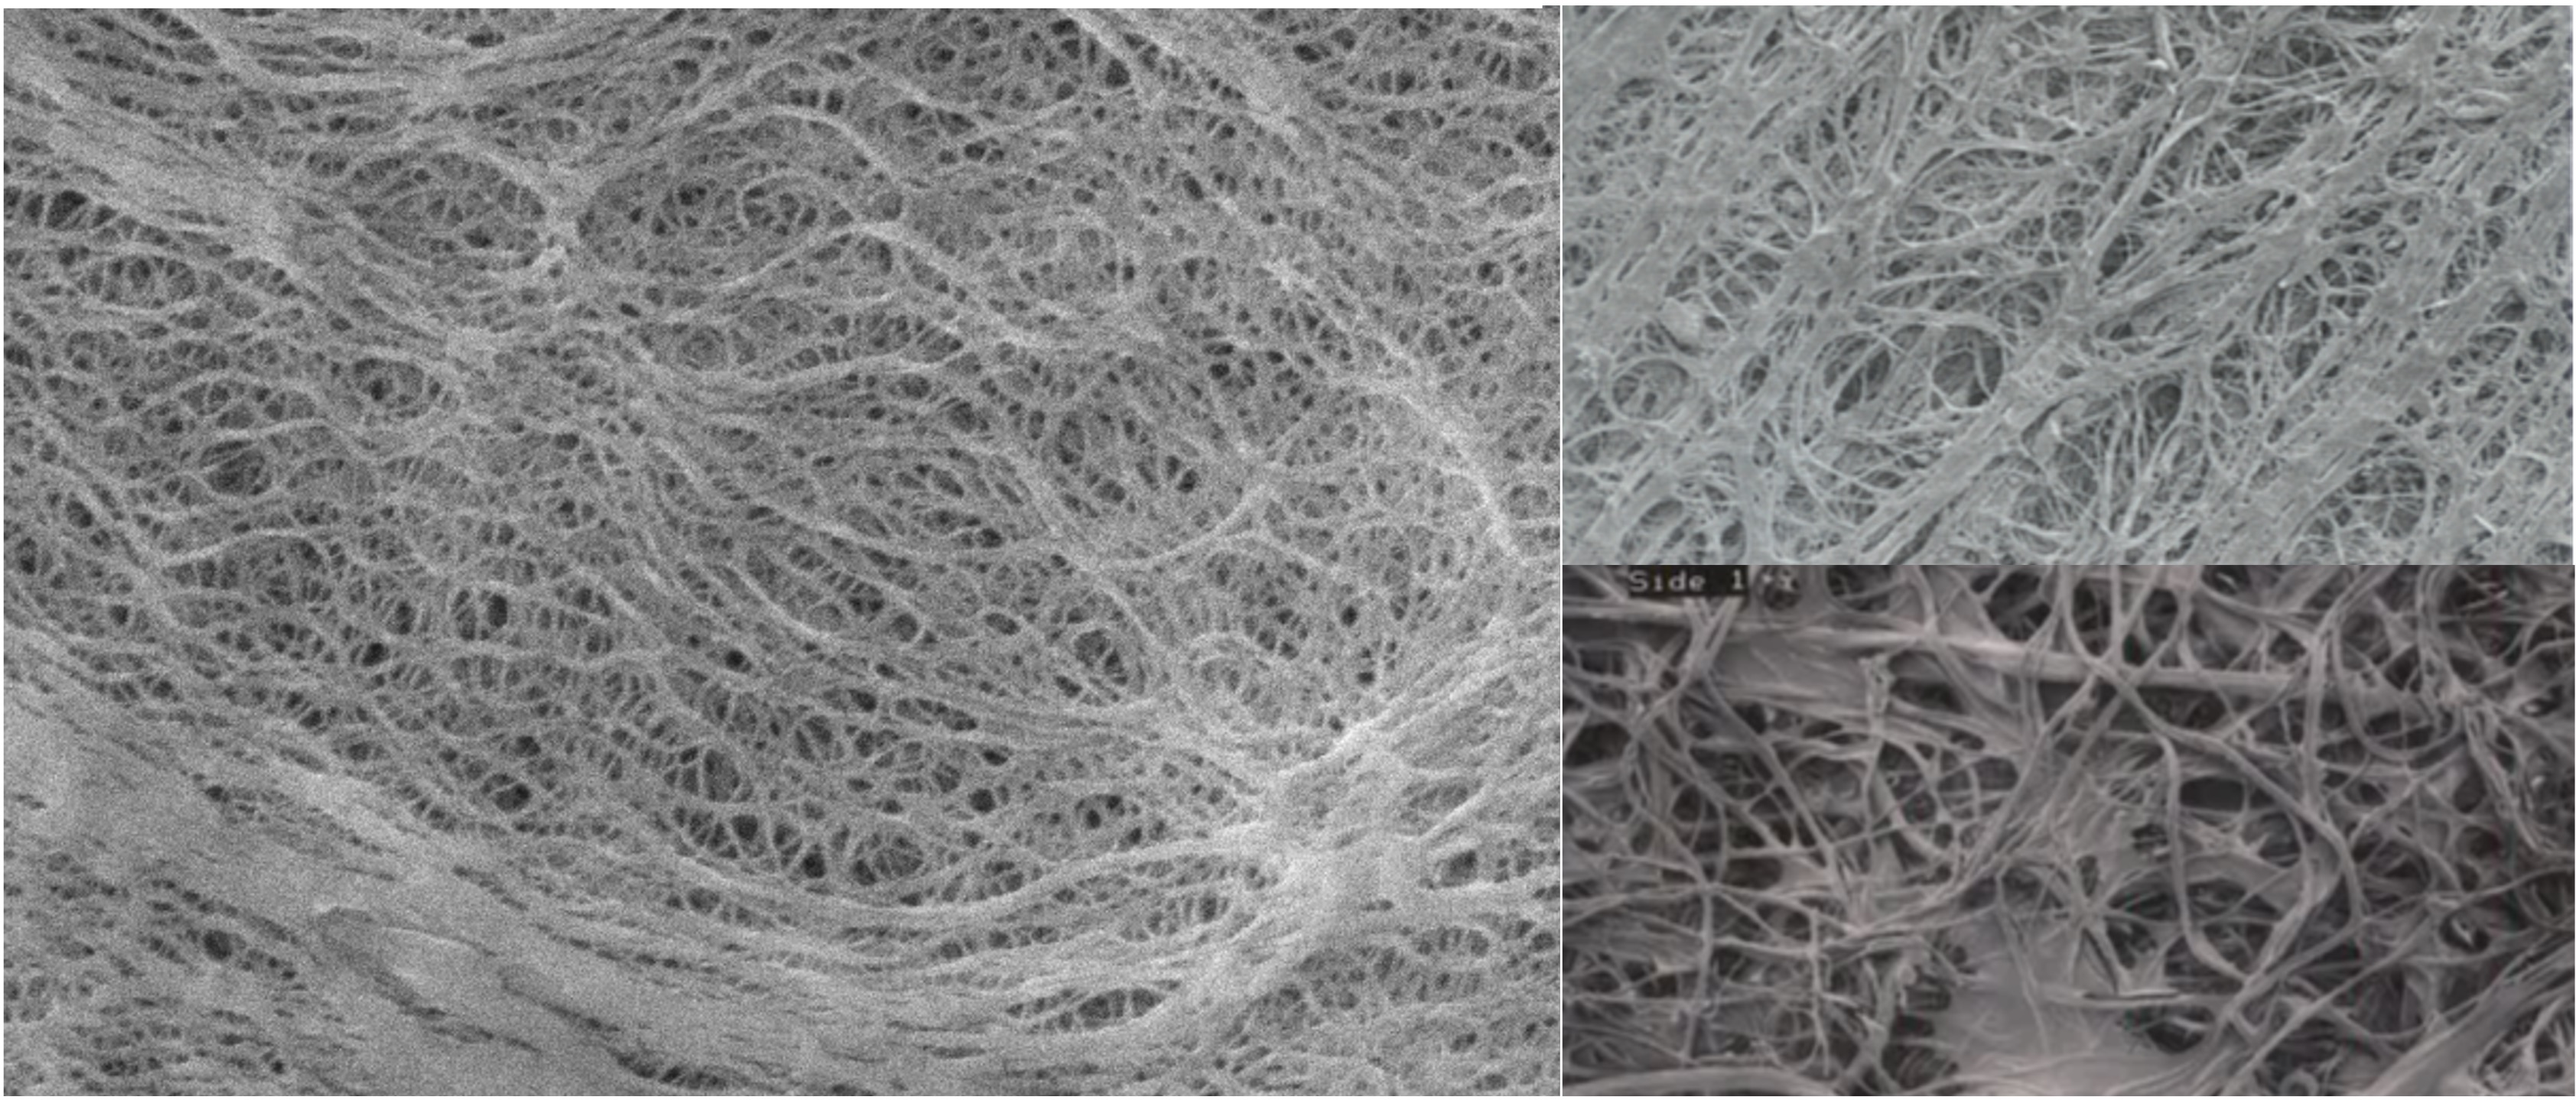
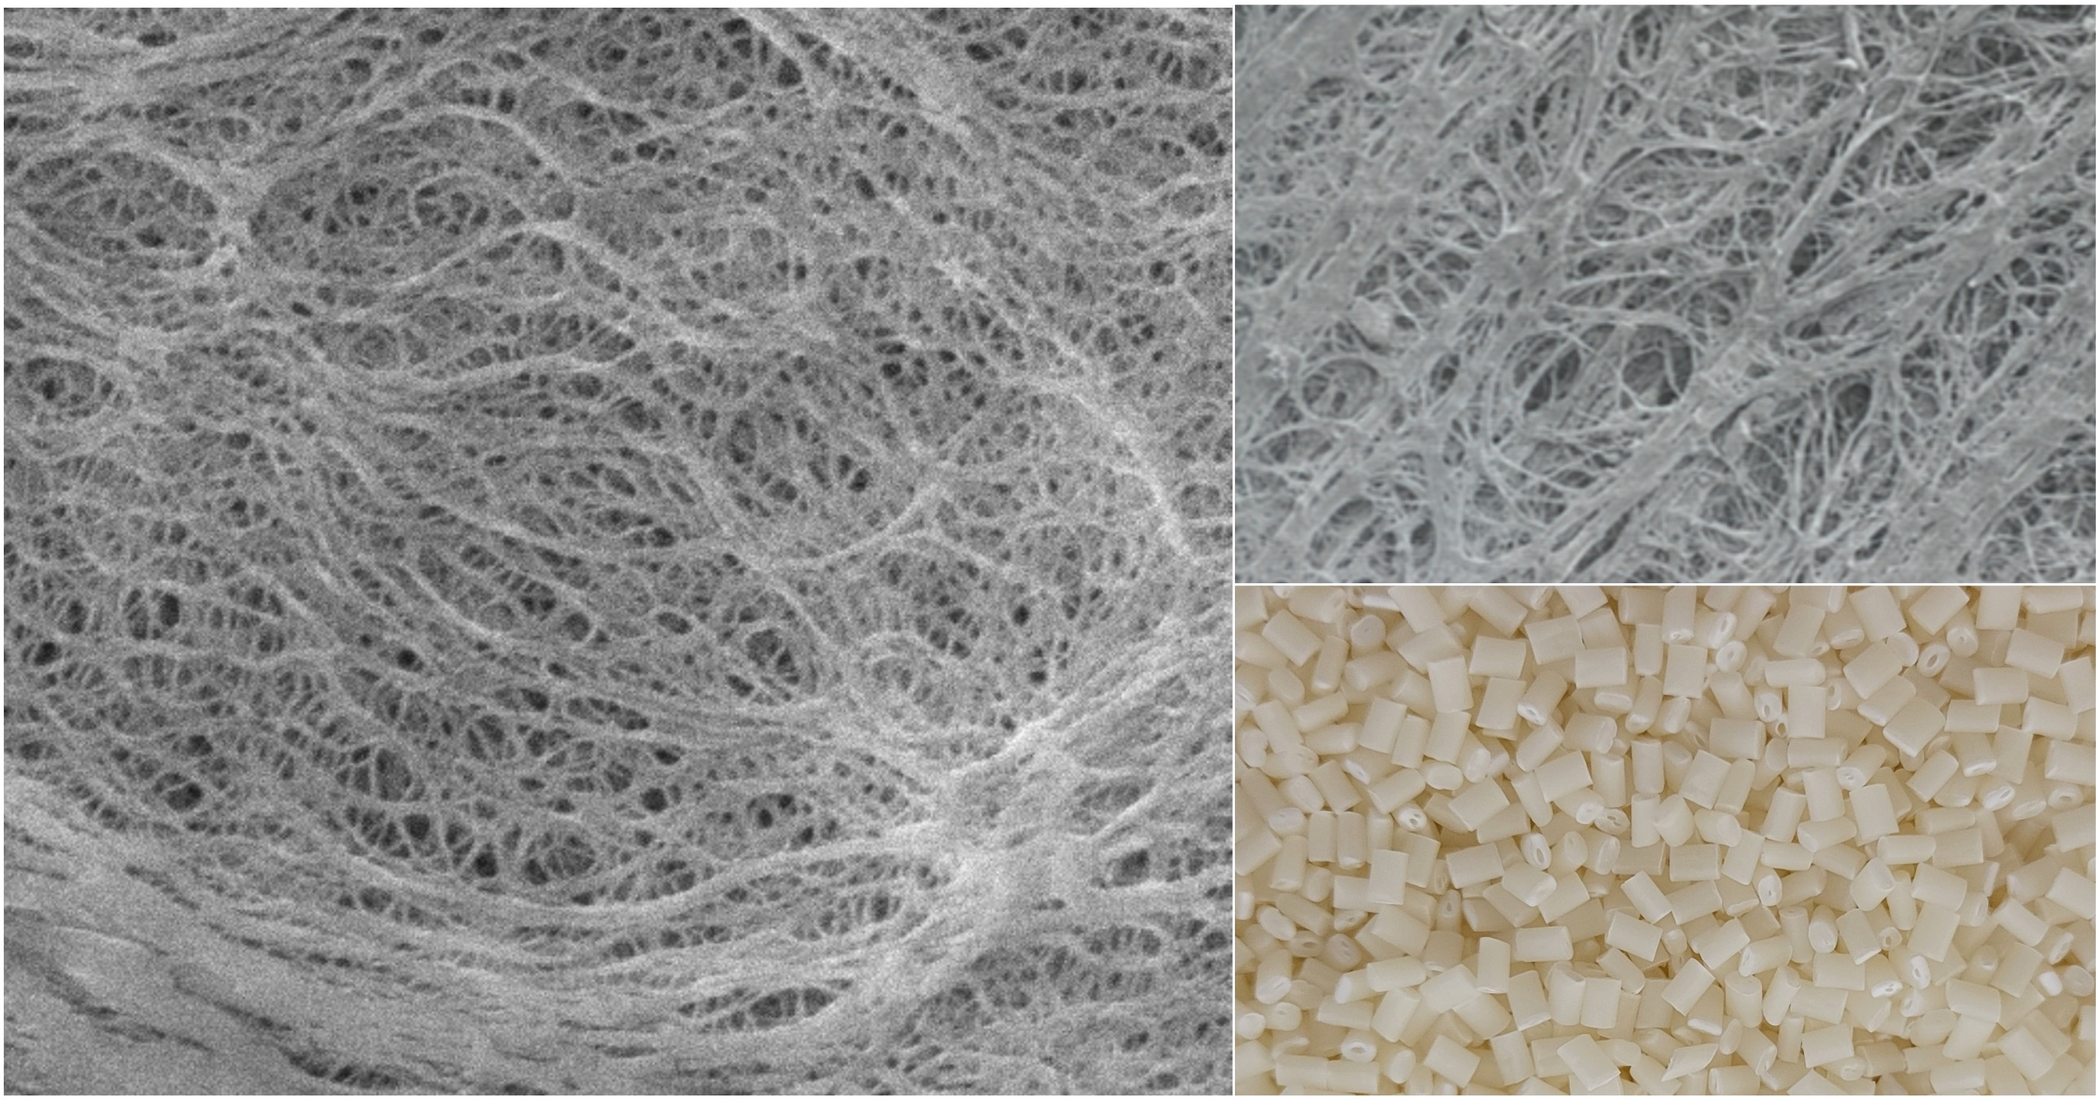
rebuilding site Thu Jan 25 16:53:25 PST 2024

diff --git a/services/toll_plastic_resin/index.html b/services/toll_plastic_resin/index.html
@@ -90,7 +90,7 @@
   </div>
 </div>
     
-<div id="hero" class="hero-image hero-image-setheight" style="background-image: url('/APorous/toll_plastic_resin_7.jpg')">
+<div id="hero" class="hero-image hero-image-setheight" style="background-image: url('/APorous/resin.jpg')">
   <div class="container ">
     <div class="hero-text">
       <span class="hero-section">services</span>

diff --git a/services/consulting/index.html b/services/consulting/index.html
@@ -90,7 +90,7 @@
   </div>
 </div>
     
-<div id="hero" class="hero-image hero-image-setheight" style="background-image: url('/APorous/consulting_0.jpg')">
+<div id="hero" class="hero-image hero-image-setheight" style="background-image: url('/APorous/consulting_2.jpg')">
   <div class="container ">
     <div class="hero-text">
       <span class="hero-section">services</span>
